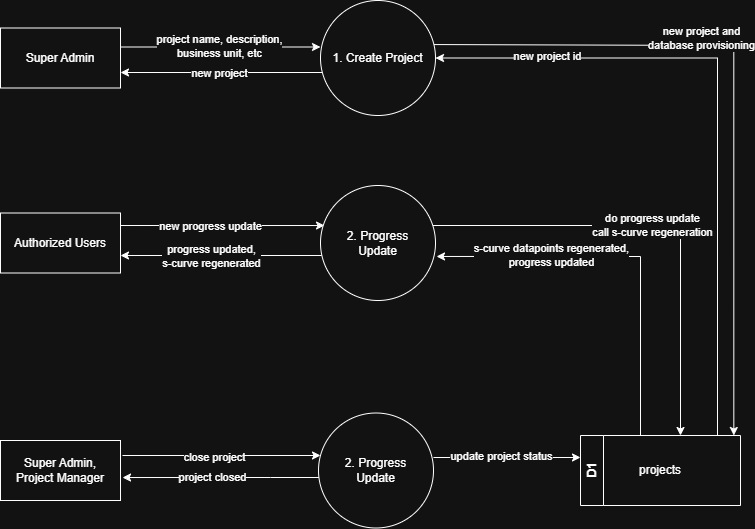
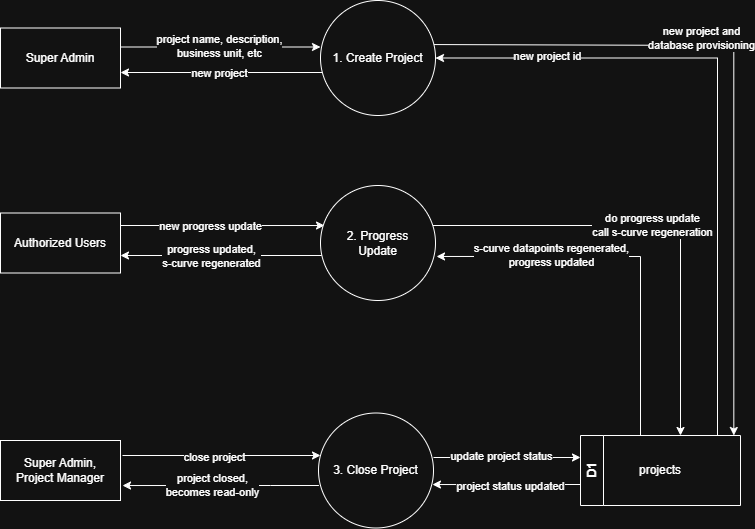
fix: global project dfd update (typo & missing arrow)

diff --git a/docs/TDD/07-Data-Flow-Diagram/7.1-Global-Module/7.1.2-Project-Management.md b/docs/TDD/07-Data-Flow-Diagram/7.1-Global-Module/7.1.2-Project-Management.md
@@ -36,7 +36,7 @@ The key components are explained in the table below.
 |-----|------|-------|---------|--------|
 | 1 | Super Admin | Project name, description, business unit, etc | Create Project | New project created, database provisioned |
 | 2 | Authorized Users | New progress update | Progress Update | Progress updated, S-curve regenerated |
-| 3 | Super Admin, Project Manager | Close project | Progress Update | Project status updated to closed |
+| 3 | Super Admin, Project Manager | Close project request | Close Project | Project status updated, becomes read-only |
 
 ---
 
